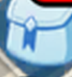
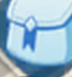
Add hot-reload for flow modules and fix bag tab coordinates
Hot-reload:
- Added reload_flows() method to icon_daemon.py
- Reloads bag subflows, tavern, faction trials, and utils
- Called before trigger_flow() for websocket API commands
- Enables live code updates without daemon restart

Window size enforcement:
- Added ensure_window_size() to WindowsScreenshotHelper
- Forces BlueStacks to 1822x1040 before every screenshot
- Prevents coordinate drift from variable scaling

Bag flow fixes:
- Updated RESOURCES_TAB_REGION to (1760, 2045, 120, 70)
- Updated HERO_TAB_REGION to (2130, 2015, 170, 100)
- Updated BAG_BUTTON_REGION in all subflows to (3679, 1596, 72, 77)
- Recaptured bag_button_4k.png, bag_resources_tab_4k.png,
  bag_resources_tab_active_4k.png templates

🤖 Generated with [Claude Code](https://claude.com/claude-code)

Changed region(s): [[0.4167, 0.0, 1.0, 0.1299]]

diff --git a/scripts/icon_daemon.py b/scripts/icon_daemon.py
@@ -38,6 +38,7 @@ import time
 import argparse
 import threading
 import logging
+import importlib
 from pathlib import Path
 from datetime import datetime
 import pytz
@@ -71,6 +72,7 @@ from utils.rally_march_button_matcher import RallyMarchButtonMatcher
 
 from flows import handshake_flow, treasure_map_flow, corn_harvest_flow, gold_coin_flow, harvest_box_flow, iron_bar_flow, gem_flow, cabbage_flow, equipment_enhancement_flow, elite_zombie_flow, afk_rewards_flow, union_gifts_flow, union_technology_flow, hero_upgrade_arms_race_flow, stamina_claim_flow, stamina_use_flow, soldier_training_flow, soldier_upgrade_flow, rally_join_flow, healing_flow, bag_flow, gift_box_flow
 from flows.tavern_quest_flow import tavern_quest_claim_flow, tavern_scan_flow
+from flows.faction_trials_flow import faction_trials_flow
 from utils.arms_race import get_arms_race_status, get_time_until_beast_training
 from utils.scheduler import get_scheduler
 
@@ -756,6 +758,12 @@ class IconDaemon:
         Returns:
             dict with success status, flow name, and flow result
         """
+        # Hot-reload flow modules to pick up code changes
+        try:
+            self.reload_flows()
+        except Exception as e:
+            self.logger.error(f"HOT-RELOAD ERROR: {e}")
+
         flow_map = self.get_available_flows()
         if flow_name not in flow_map:
             return {"success": False, "error": f"Unknown flow: {flow_name}", "available": list(flow_map.keys())}
@@ -824,6 +832,54 @@ class IconDaemon:
                     self.critical_flow_active = False
                     self.critical_flow_name = None
 
+    def reload_flows(self):
+        """
+        Hot-reload all flow modules for live code updates.
+
+        Called before trigger_flow() to pick up any code changes.
+        """
+        import sys
+
+        # List of modules to reload (in dependency order)
+        modules_to_reload = [
+            'utils.windows_screenshot_helper',
+            'flows.bag_use_item_subflow',
+            'flows.bag_special_flow',
+            'flows.bag_hero_flow',
+            'flows.bag_resources_flow',
+            'flows.bag_flow',
+            'flows.tavern_quest_flow',
+            'flows.faction_trials_flow',
+            'flows',
+        ]
+
+        for mod_name in modules_to_reload:
+            if mod_name in sys.modules:
+                importlib.reload(sys.modules[mod_name])
+            else:
+                self.logger.debug(f"HOT-RELOAD: Module {mod_name} not loaded, skipping")
+
+        # Re-import all flow functions after reload
+        global handshake_flow, treasure_map_flow, corn_harvest_flow, gold_coin_flow
+        global harvest_box_flow, iron_bar_flow, gem_flow, cabbage_flow
+        global equipment_enhancement_flow, elite_zombie_flow, afk_rewards_flow
+        global union_gifts_flow, union_technology_flow, hero_upgrade_arms_race_flow
+        global stamina_claim_flow, stamina_use_flow, soldier_training_flow
+        global soldier_upgrade_flow, rally_join_flow, healing_flow, bag_flow, gift_box_flow
+        global tavern_quest_claim_flow, tavern_scan_flow, faction_trials_flow
+
+        from flows import (handshake_flow, treasure_map_flow, corn_harvest_flow,
+                          gold_coin_flow, harvest_box_flow, iron_bar_flow, gem_flow,
+                          cabbage_flow, equipment_enhancement_flow, elite_zombie_flow,
+                          afk_rewards_flow, union_gifts_flow, union_technology_flow,
+                          hero_upgrade_arms_race_flow, stamina_claim_flow, stamina_use_flow,
+                          soldier_training_flow, soldier_upgrade_flow, rally_join_flow,
+                          healing_flow, bag_flow, gift_box_flow)
+        from flows.tavern_quest_flow import tavern_quest_claim_flow, tavern_scan_flow
+        from flows.faction_trials_flow import faction_trials_flow
+
+        self.logger.info("HOT-RELOAD: All flow modules reloaded")
+
     def get_available_flows(self) -> dict:
         """
         Return dict of flow_name -> (flow_func, is_critical).
@@ -838,8 +894,8 @@ class IconDaemon:
             "union_technology": (union_technology_flow, False),
             "afk_rewards": (afk_rewards_flow, False),
             "hero_upgrade": (hero_upgrade_arms_race_flow, True),
-            "soldier_training": (lambda adb: soldier_training_flow(adb, self.windows_helper), True),
-            "soldier_upgrade": (lambda adb: soldier_upgrade_flow(adb, self.windows_helper), True),
+            "soldier_training": (lambda adb: soldier_training_flow(adb, debug=False), True),
+            "soldier_upgrade": (lambda adb: soldier_upgrade_flow(adb, debug=False), True),
             "healing": (healing_flow, False),
             "elite_zombie": (elite_zombie_flow, False),
             "handshake": (handshake_flow, False),
@@ -853,6 +909,7 @@ class IconDaemon:
             "harvest_box": (harvest_box_flow, False),
             "gift_box": (gift_box_flow, True),
             "stamina_claim": (stamina_claim_flow, False),
+            "faction_trials": (lambda adb: faction_trials_flow(adb, self.windows_helper), True),
         }
 
     def get_status(self) -> dict:
@@ -1169,7 +1226,7 @@ class IconDaemon:
                             self.logger.info(f"[{iteration}] HOSPITAL HEALING confirmed ({healing_count}/{self.HOSPITAL_CONSECUTIVE_REQUIRED} = {healing_count*100//self.HOSPITAL_CONSECUTIVE_REQUIRED}%)")
                             click_x, click_y = self.hospital_matcher.get_click_position()
                             self.adb.tap(click_x, click_y)
-                            time.sleep(1.5)
+                            time.sleep(2.5)  # Wait for panel to fully open
                             self._run_flow("healing", healing_flow)
                             self.hospital_state_history = []
 
@@ -1178,7 +1235,7 @@ class IconDaemon:
                             self.logger.info(f"[{iteration}] HOSPITAL SOLDIERS_WOUNDED confirmed ({wounded_count}/{self.HOSPITAL_CONSECUTIVE_REQUIRED} = {wounded_count*100//self.HOSPITAL_CONSECUTIVE_REQUIRED}%)")
                             click_x, click_y = self.hospital_matcher.get_click_position()
                             self.adb.tap(click_x, click_y)
-                            time.sleep(1.5)
+                            time.sleep(2.5)  # Wait for panel to fully open
                             self._run_flow("healing", healing_flow)
                             self.hospital_state_history = []
                 else:
@@ -1228,7 +1285,8 @@ class IconDaemon:
                 # UNKNOWN state recovery - two-tier approach:
                 # 1. Quick recovery (10s): Click safe ground tile to dismiss popup
                 # 2. Full recovery (180s): Run return_to_base_view if quick recovery fails
-                if view_state == "UNKNOWN" and effective_idle_secs >= self.IDLE_THRESHOLD:
+                # CRITICAL: Skip recovery if ANY flow is active - flows control their own UI
+                if view_state == "UNKNOWN" and effective_idle_secs >= self.IDLE_THRESHOLD and not self.active_flows:
                     if self.unknown_state_start is not None:
                         unknown_duration = time.time() - self.unknown_state_start
 
@@ -1323,7 +1381,8 @@ class IconDaemon:
 
                 # Pre-event stamina claim: 6 min before Beast Training, claim if red dot visible
                 # This starts the 4-hour cooldown early so we can claim again in last 6 min of event
-                if in_pre_beast_window and effective_idle_secs >= self.IDLE_THRESHOLD:
+                # Uses scheduler's pre_beast_stamina_claim flow config (idle_required=20s, lower than IDLE_THRESHOLD)
+                if in_pre_beast_window and self.scheduler.is_flow_ready("pre_beast_stamina_claim", idle_seconds=effective_idle_secs):
                     # Calculate which upcoming block this is for
                     upcoming_beast_block = arms_race['block_end']  # Next block starts when current ends
 
@@ -1336,6 +1395,7 @@ class IconDaemon:
                             claim_success = self._run_flow("stamina_claim", stamina_claim_flow)
                             if claim_success:
                                 self.beast_training_pre_claim_block = upcoming_beast_block
+                                self.scheduler.record_flow_run("pre_beast_stamina_claim")
                                 self.logger.info(f"[{iteration}] PRE-BEAST TRAINING: Stamina claimed, cooldown started. Will claim again in last 6 min of event.")
                         elif self.debug:
                             self.logger.debug(f"[{iteration}] PRE-BEAST TRAINING: {minutes_until_beast:.1f}min until event, but no red dot ({red_count} pixels)")
@@ -1377,7 +1437,24 @@ class IconDaemon:
                         self.beast_training_current_block = block_start
                         self.beast_training_rally_count = 0
                         self.beast_training_use_count = 0  # Reset Use count for new block
-                        self.logger.info(f"[{iteration}] BEAST TRAINING: New block started, rally count reset to 0, use count reset to 0")
+                        # Check if there's a pre-set target for this block
+                        arms_race_state = self.scheduler.get_arms_race_state()
+                        next_target = arms_race_state.get("beast_training_next_target_rallies")
+                        if next_target:
+                            # Copy next target to current target
+                            self.scheduler.update_arms_race_state(
+                                beast_training_target_rallies=next_target,
+                                beast_training_next_target_rallies=None,
+                                beast_training_rally_count=0
+                            )
+                            self.logger.info(f"[{iteration}] BEAST TRAINING: New block started, rally count reset to 0, use count reset to 0, target={next_target} (from pre-set)")
+                        else:
+                            self.scheduler.update_arms_race_state(beast_training_rally_count=0)
+                            self.logger.info(f"[{iteration}] BEAST TRAINING: New block started, rally count reset to 0, use count reset to 0")
+
+                    # Get target from scheduler (or use MAX_RALLIES as default)
+                    arms_race_state = self.scheduler.get_arms_race_state()
+                    rally_target = arms_race_state.get("beast_training_target_rallies") or self.BEAST_TRAINING_MAX_RALLIES
 
                     # Check if user was idle since block start (required for Use button)
                     time_elapsed_secs = arms_race['time_elapsed'].total_seconds()
@@ -1396,16 +1473,19 @@ class IconDaemon:
                         elif self.debug:
                             self.logger.debug(f"[{iteration}] BEAST TRAINING: Stamina {confirmed_stamina} < {self.STAMINA_CLAIM_THRESHOLD}, but no red dot ({red_count} pixels), skipping claim")
 
-                    # STEP 2: Rally - if stamina >= 20 and cooldown ok, do rallies FIRST
+                    # STEP 2: Rally - if stamina >= 20, cooldown ok, and under target, do rallies FIRST
                     # This burns down stamina so we can then use recovery items
                     rally_cooldown_ok = (current_time - self.beast_training_last_rally) >= self.BEAST_TRAINING_RALLY_COOLDOWN
                     rally_triggered = False
                     if (stamina_confirmed and
                         confirmed_stamina >= self.BEAST_TRAINING_STAMINA_THRESHOLD and
                         rally_cooldown_ok and
+                        self.beast_training_rally_count < rally_target and  # Check against target
                         not claim_triggered):  # Don't rally if we just claimed (wait for stamina to update)
                         self.beast_training_rally_count += 1
-                        self.logger.info(f"[{iteration}] BEAST TRAINING: Mystic Beast ({arms_race_remaining_mins}min left), stamina={confirmed_stamina}, triggering rally #{self.beast_training_rally_count}...")
+                        self.scheduler.update_arms_race_state(beast_training_rally_count=self.beast_training_rally_count)
+                        remaining = rally_target - self.beast_training_rally_count
+                        self.logger.info(f"[{iteration}] BEAST TRAINING: Mystic Beast ({arms_race_remaining_mins}min left), stamina={confirmed_stamina}, triggering rally #{self.beast_training_rally_count}/{rally_target} ({remaining} remaining)...")
                         # Use elite_zombie_flow with 0 plus clicks
                         import config
                         original_clicks = getattr(config, 'ELITE_ZOMBIE_PLUS_CLICKS', 5)
@@ -1416,7 +1496,7 @@ class IconDaemon:
                         self.stamina_history = []  # Reset after triggering
 
                     # STEP 3: Use Button - only AFTER rallies have burned stamina down to < 20
-                    # Conditions: idle entire block, rally count < 15, stamina < 20, Use clicks < 4, cooldown
+                    # Conditions: idle entire block, rally count < target, stamina < 20, Use clicks < 4, cooldown
                     # For 3rd+ uses, require being in the last N minutes of the block
                     use_cooldown_ok = (current_time - self.beast_training_last_use_time) >= self.BEAST_TRAINING_USE_COOLDOWN
                     use_allowed_by_time = (self.beast_training_use_count < 2 or
@@ -1425,7 +1505,7 @@ class IconDaemon:
                         idle_since_block_start and
                         stamina_confirmed and
                         confirmed_stamina < self.BEAST_TRAINING_USE_STAMINA_THRESHOLD and
-                        self.beast_training_rally_count < self.BEAST_TRAINING_MAX_RALLIES and
+                        self.beast_training_rally_count < rally_target and  # Use target instead of MAX_RALLIES
                         self.beast_training_use_count < self.BEAST_TRAINING_USE_MAX and
                         use_cooldown_ok and
                         use_allowed_by_time and
@@ -1433,7 +1513,8 @@ class IconDaemon:
                         not rally_triggered):    # Only use if rally wasn't just triggered (wait for stamina to update)
                         # All conditions met - use stamina recovery item
                         self.beast_training_use_count += 1
-                        self.logger.info(f"[{iteration}] BEAST TRAINING: Stamina {confirmed_stamina} < {self.BEAST_TRAINING_USE_STAMINA_THRESHOLD}, using recovery item (use #{self.beast_training_use_count}/{self.BEAST_TRAINING_USE_MAX}, rally #{self.beast_training_rally_count}/{self.BEAST_TRAINING_MAX_RALLIES})...")
+                        remaining = rally_target - self.beast_training_rally_count
+                        self.logger.info(f"[{iteration}] BEAST TRAINING: Stamina {confirmed_stamina} < {self.BEAST_TRAINING_USE_STAMINA_THRESHOLD}, using recovery item (use #{self.beast_training_use_count}/{self.BEAST_TRAINING_USE_MAX}, rally #{self.beast_training_rally_count}/{rally_target}, {remaining} remaining)...")
                         self._run_flow("stamina_use", stamina_use_flow)
                         self.beast_training_last_use_time = current_time
 

diff --git a/utils/windows_screenshot_helper.py b/utils/windows_screenshot_helper.py
@@ -29,6 +29,10 @@ class WindowsScreenshotHelper:
     TARGET_WIDTH = 3840  # 4K width
     TARGET_HEIGHT = 2160  # 4K height
 
+    # Target window size for consistent scaling
+    TARGET_WINDOW_WIDTH = 1822
+    TARGET_WINDOW_HEIGHT = 1040
+
     def __init__(self, window_title="BlueStacks App Player"):
         """Initialize the screenshot helper.
 
@@ -44,6 +48,15 @@ class WindowsScreenshotHelper:
         self.hwnd = win32gui.FindWindow(None, self.window_title)
         if not self.hwnd:
             raise RuntimeError(f"Could not find window: {self.window_title}")
+
+    def ensure_window_size(self):
+        """Resize BlueStacks window to target size for consistent scaling."""
+        import win32con
+        left, top, right, bottom = win32gui.GetWindowRect(self.hwnd)
+        if (right - left) != self.TARGET_WINDOW_WIDTH or (bottom - top) != self.TARGET_WINDOW_HEIGHT:
+            win32gui.SetWindowPos(self.hwnd, win32con.HWND_TOP, left, top,
+                                  self.TARGET_WINDOW_WIDTH, self.TARGET_WINDOW_HEIGHT,
+                                  win32con.SWP_NOZORDER)
 
     def capture_window(self, max_retries=3):
         """Capture window content using PrintWindow API.
@@ -147,6 +160,9 @@ class WindowsScreenshotHelper:
         Returns:
             np.ndarray: BGR image at 4K resolution (3840x2160x3)
         """
+        # Ensure consistent window size before capture
+        self.ensure_window_size()
+
         # Capture raw window
         raw_img = self.capture_window()
 

diff --git a/scripts/flows/bag_hero_flow.py b/scripts/flows/bag_hero_flow.py
@@ -27,13 +27,13 @@ import numpy as np
 from scripts.flows.bag_use_item_subflow import use_item_subflow
 
 # Fixed positions (4K resolution)
-BAG_BUTTON_REGION = (3679, 1577, 86, 93)
-BAG_BUTTON_CLICK = (3732, 1633)
+BAG_BUTTON_REGION = (3679, 1596, 72, 77)
+BAG_BUTTON_CLICK = (3725, 1624)
 
 BAG_TAB_REGION = (1352, 32, 1127, 90)
 
-HERO_TAB_REGION = (2158, 2015, 207, 127)  # Same region for active/inactive
-HERO_TAB_CLICK = (2261, 2078)
+HERO_TAB_REGION = (2130, 2015, 170, 100)  # Same region for active/inactive
+HERO_TAB_CLICK = (2257, 2078)
 
 # Thresholds
 CHEST_THRESHOLD = 0.01

diff --git a/scripts/flows/bag_resources_flow.py b/scripts/flows/bag_resources_flow.py
@@ -29,11 +29,11 @@ import numpy as np
 from scripts.flows.bag_use_item_subflow import use_item_subflow
 
 # Fixed positions (4K resolution)
-BAG_BUTTON_REGION = (3679, 1577, 86, 93)
-BAG_BUTTON_CLICK = (3732, 1633)
+BAG_BUTTON_REGION = (3679, 1596, 72, 77)
+BAG_BUTTON_CLICK = (3725, 1624)
 
-RESOURCES_TAB_REGION = (1732, 2018, 179, 111)  # Same region for active/inactive
-RESOURCES_TAB_CLICK = (1831, 2076)
+RESOURCES_TAB_REGION = (1760, 2045, 120, 70)  # Same region for active/inactive
+RESOURCES_TAB_CLICK = (1820, 2080)
 
 BAG_TAB_REGION = (1352, 32, 1127, 90)
 

diff --git a/scripts/flows/bag_special_flow.py b/scripts/flows/bag_special_flow.py
@@ -46,7 +46,7 @@ BAG_BUTTON_CLICK = (3725, 1624)
 
 BAG_TAB_REGION = (1352, 32, 1127, 90)
 
-SPECIAL_TAB_REGION = (1525, 2033, 163, 96)  # Same region for active/inactive
+SPECIAL_TAB_REGION = (1520, 2015, 170, 100)  # Same region for active/inactive
 SPECIAL_TAB_CLICK = (1602, 2080)  # Only needed if switching from another tab
 
 # Thresholds
